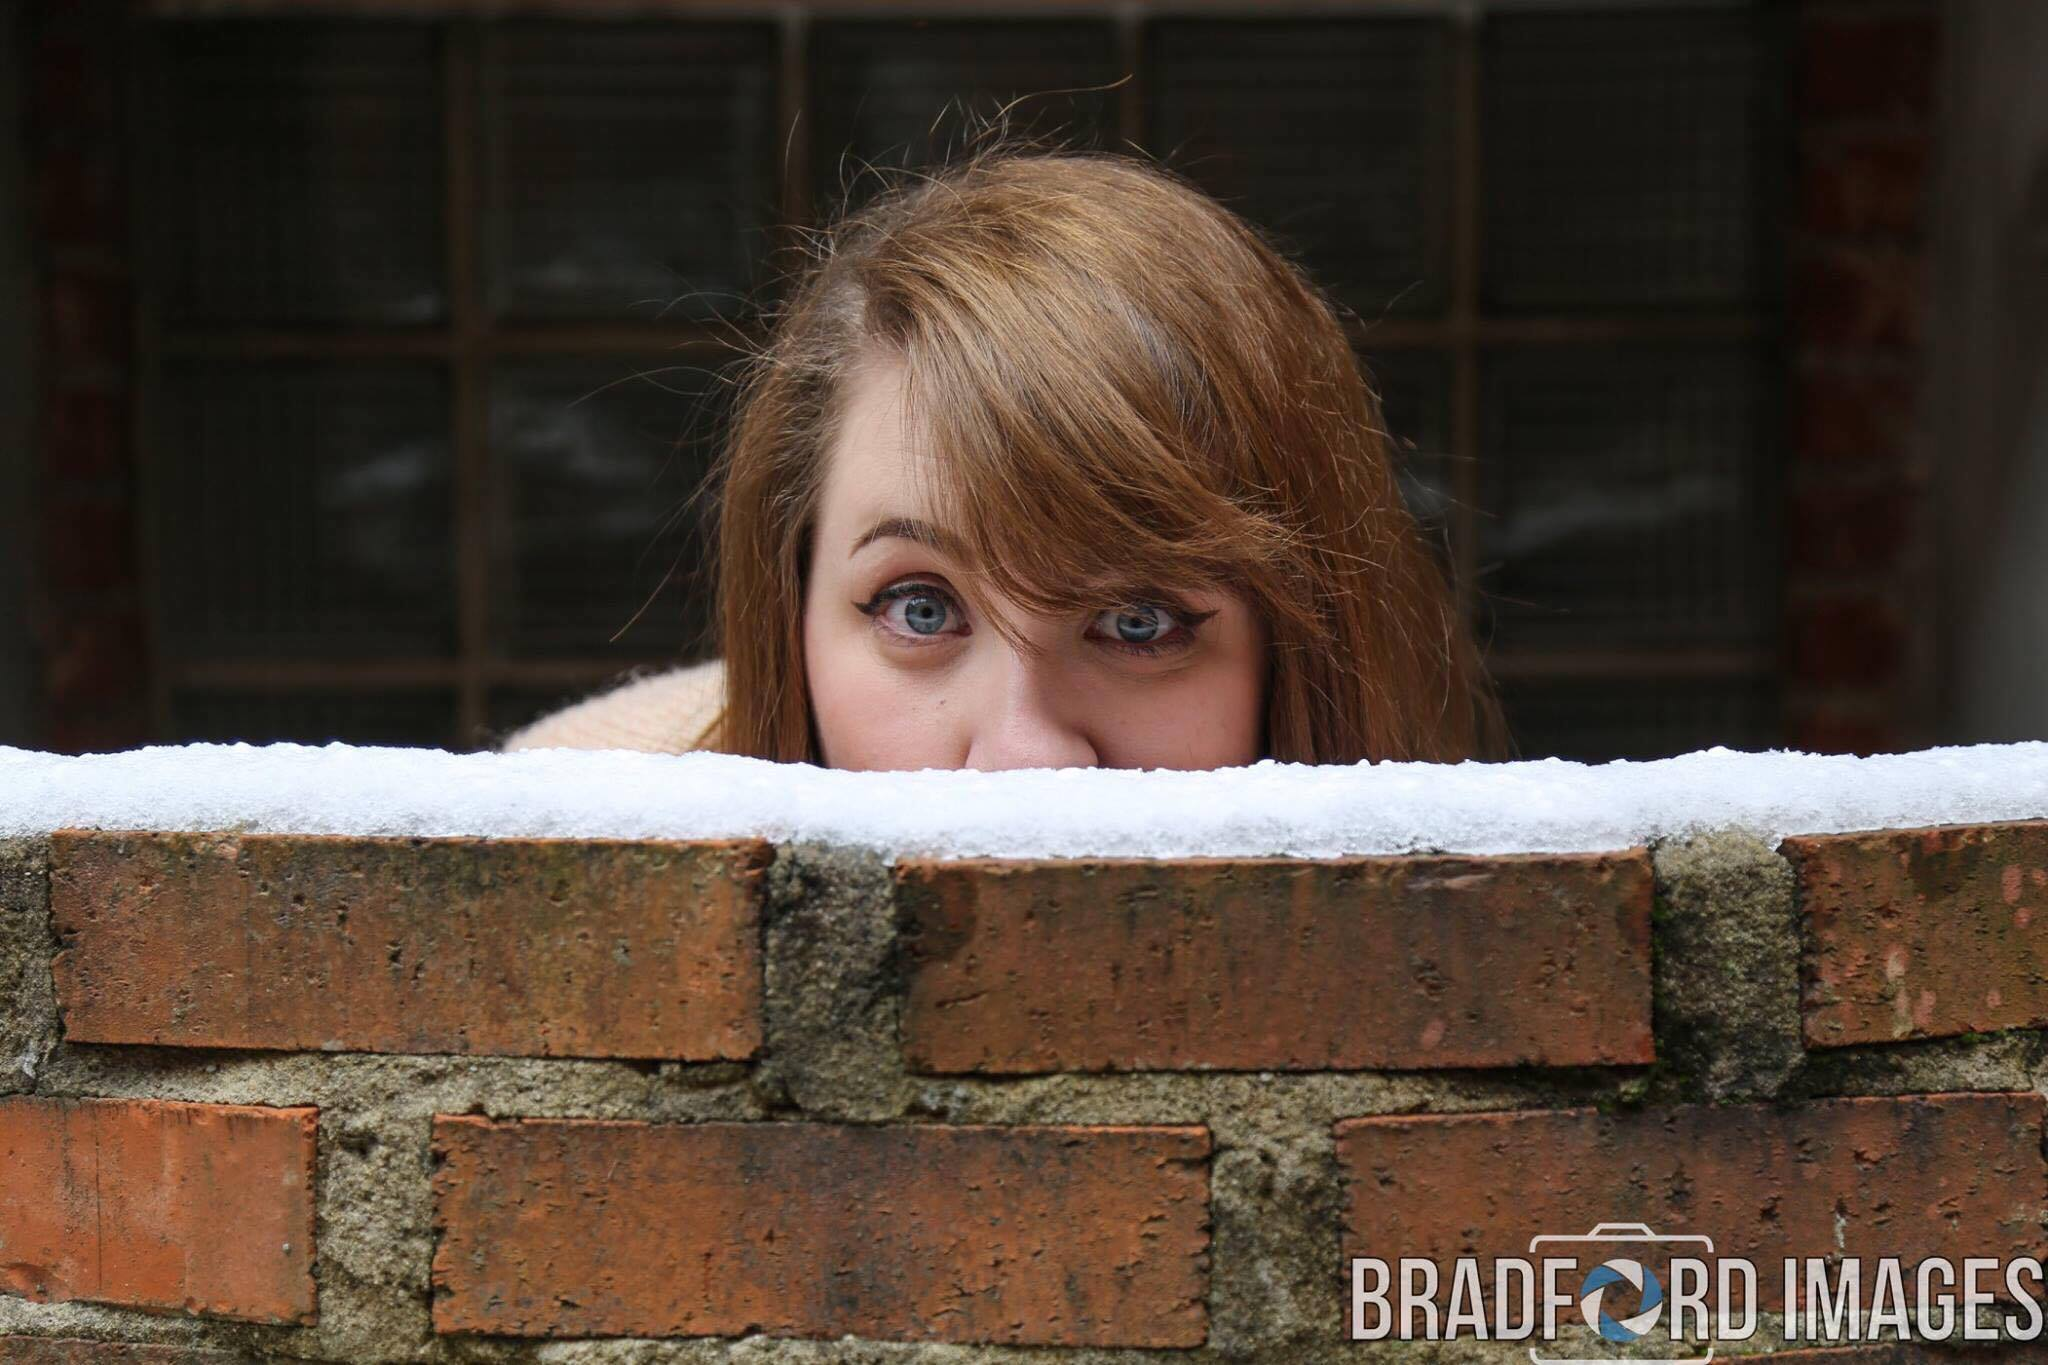
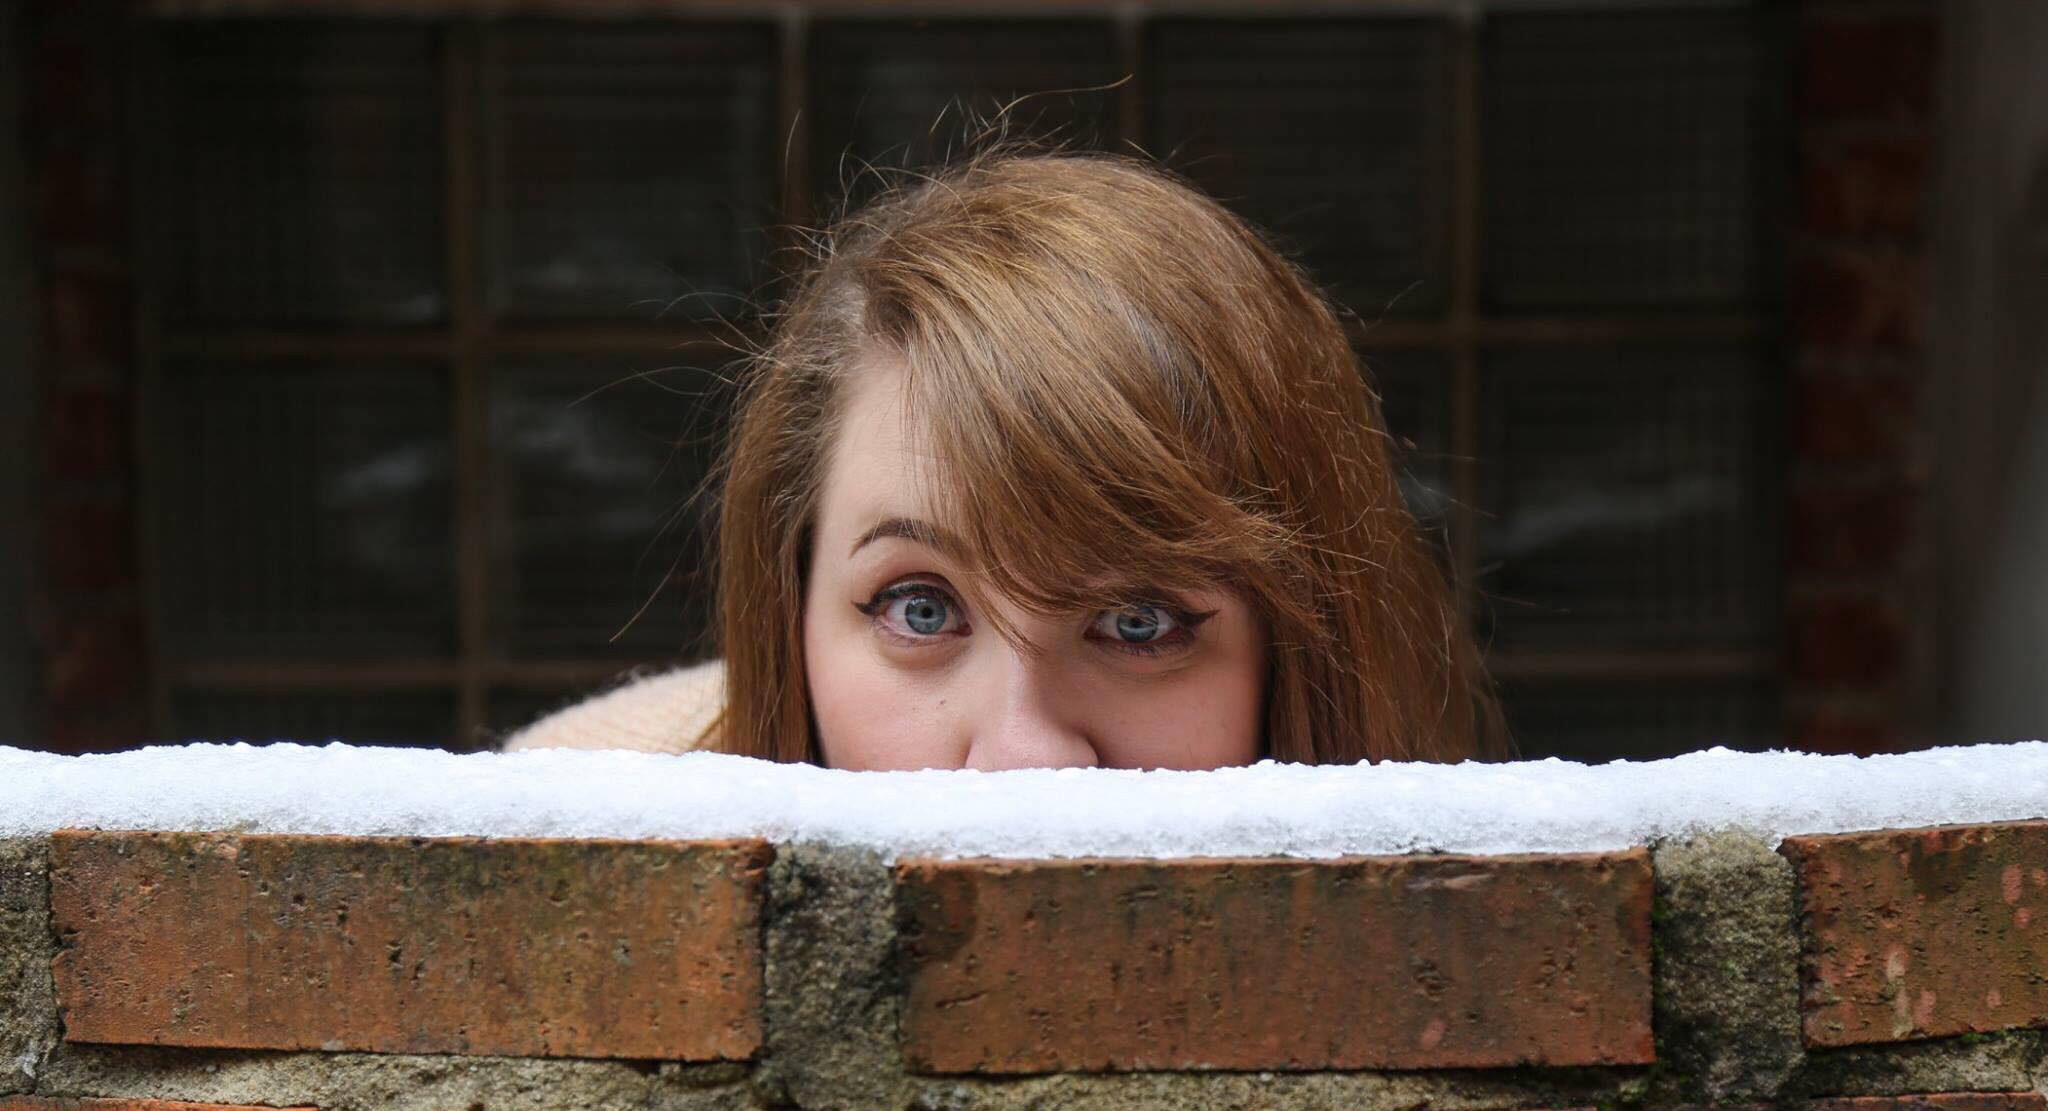
Placed picture of Jessi on home page

diff --git a/css/main.css b/css/main.css
@@ -4,14 +4,8 @@
     A set of useful LESS mixins
     More info at: http://lesselements.com
   ---------------------------------------------------*/
-p {
-  -moz-opacity: 0.2;
-  -khtml-opacity: 0.2;
-  -webkit-opacity: 0.2;
-  opacity: 0.2;
-  -ms-filter: progid:DXImageTransform.Microsoft.Alpha(opacity=20);
-  filter: alpha(opacity=20);
-  color: purple;
+body {
+  background-color: #101010;
 }
 #main,
 .sidenav {
@@ -20,7 +14,6 @@ p {
 #nav_container {
   width: 100%;
   text-align: center;
-  background-color: black;
 }
 .navigation {
   margin: 0;
@@ -60,14 +53,15 @@ p {
 }
 .navigation li.active a {
   font-weight: bold;
-  color: #333;
+  color: #ccccff;
 }
 /*////////////////////////////////////////////////////////////////*/
 .banner {
-  width: 90%;
+  width: 100%;
+  margin-top: -6%;
 }
 .banner img {
-  width: 60%;
+  width: 100%;
 }
 /*////////////////////////////////////////////////////////////////*/
 .footer {

diff --git a/less/main.less b/less/main.less
@@ -3,9 +3,8 @@
 @import "vendor/elements.less";
 @import "color.less";
 
-p {
-  .opacity(0.2);
-  color: @best-color;
+body {
+  background-color: @background-color;
 }
 
 #main,
@@ -16,7 +15,6 @@ p {
 #nav_container {
   width: 100%;
   text-align: center;
-  background-color: black;
 }
 
 .navigation {
@@ -64,7 +62,7 @@ p {
 
     li.active a {
       font-weight: bold;
-      color: #333;
+      color: @active-color;
     }
 }
 
@@ -72,10 +70,11 @@ p {
 
 /*////////////////////////////////////////////////////////////////*/
 .banner {
-  width: 90%;
+  width: 100%;
+  margin-top: -6%;
 
   img{
-    width: 60%
+    width: 100%
   }
 }
 

diff --git a/less/color.less b/less/color.less
@@ -1,1 +1,5 @@
 @best-color: purple;
+
+@background-color: #101010;
+
+@active-color: #ccccff;
